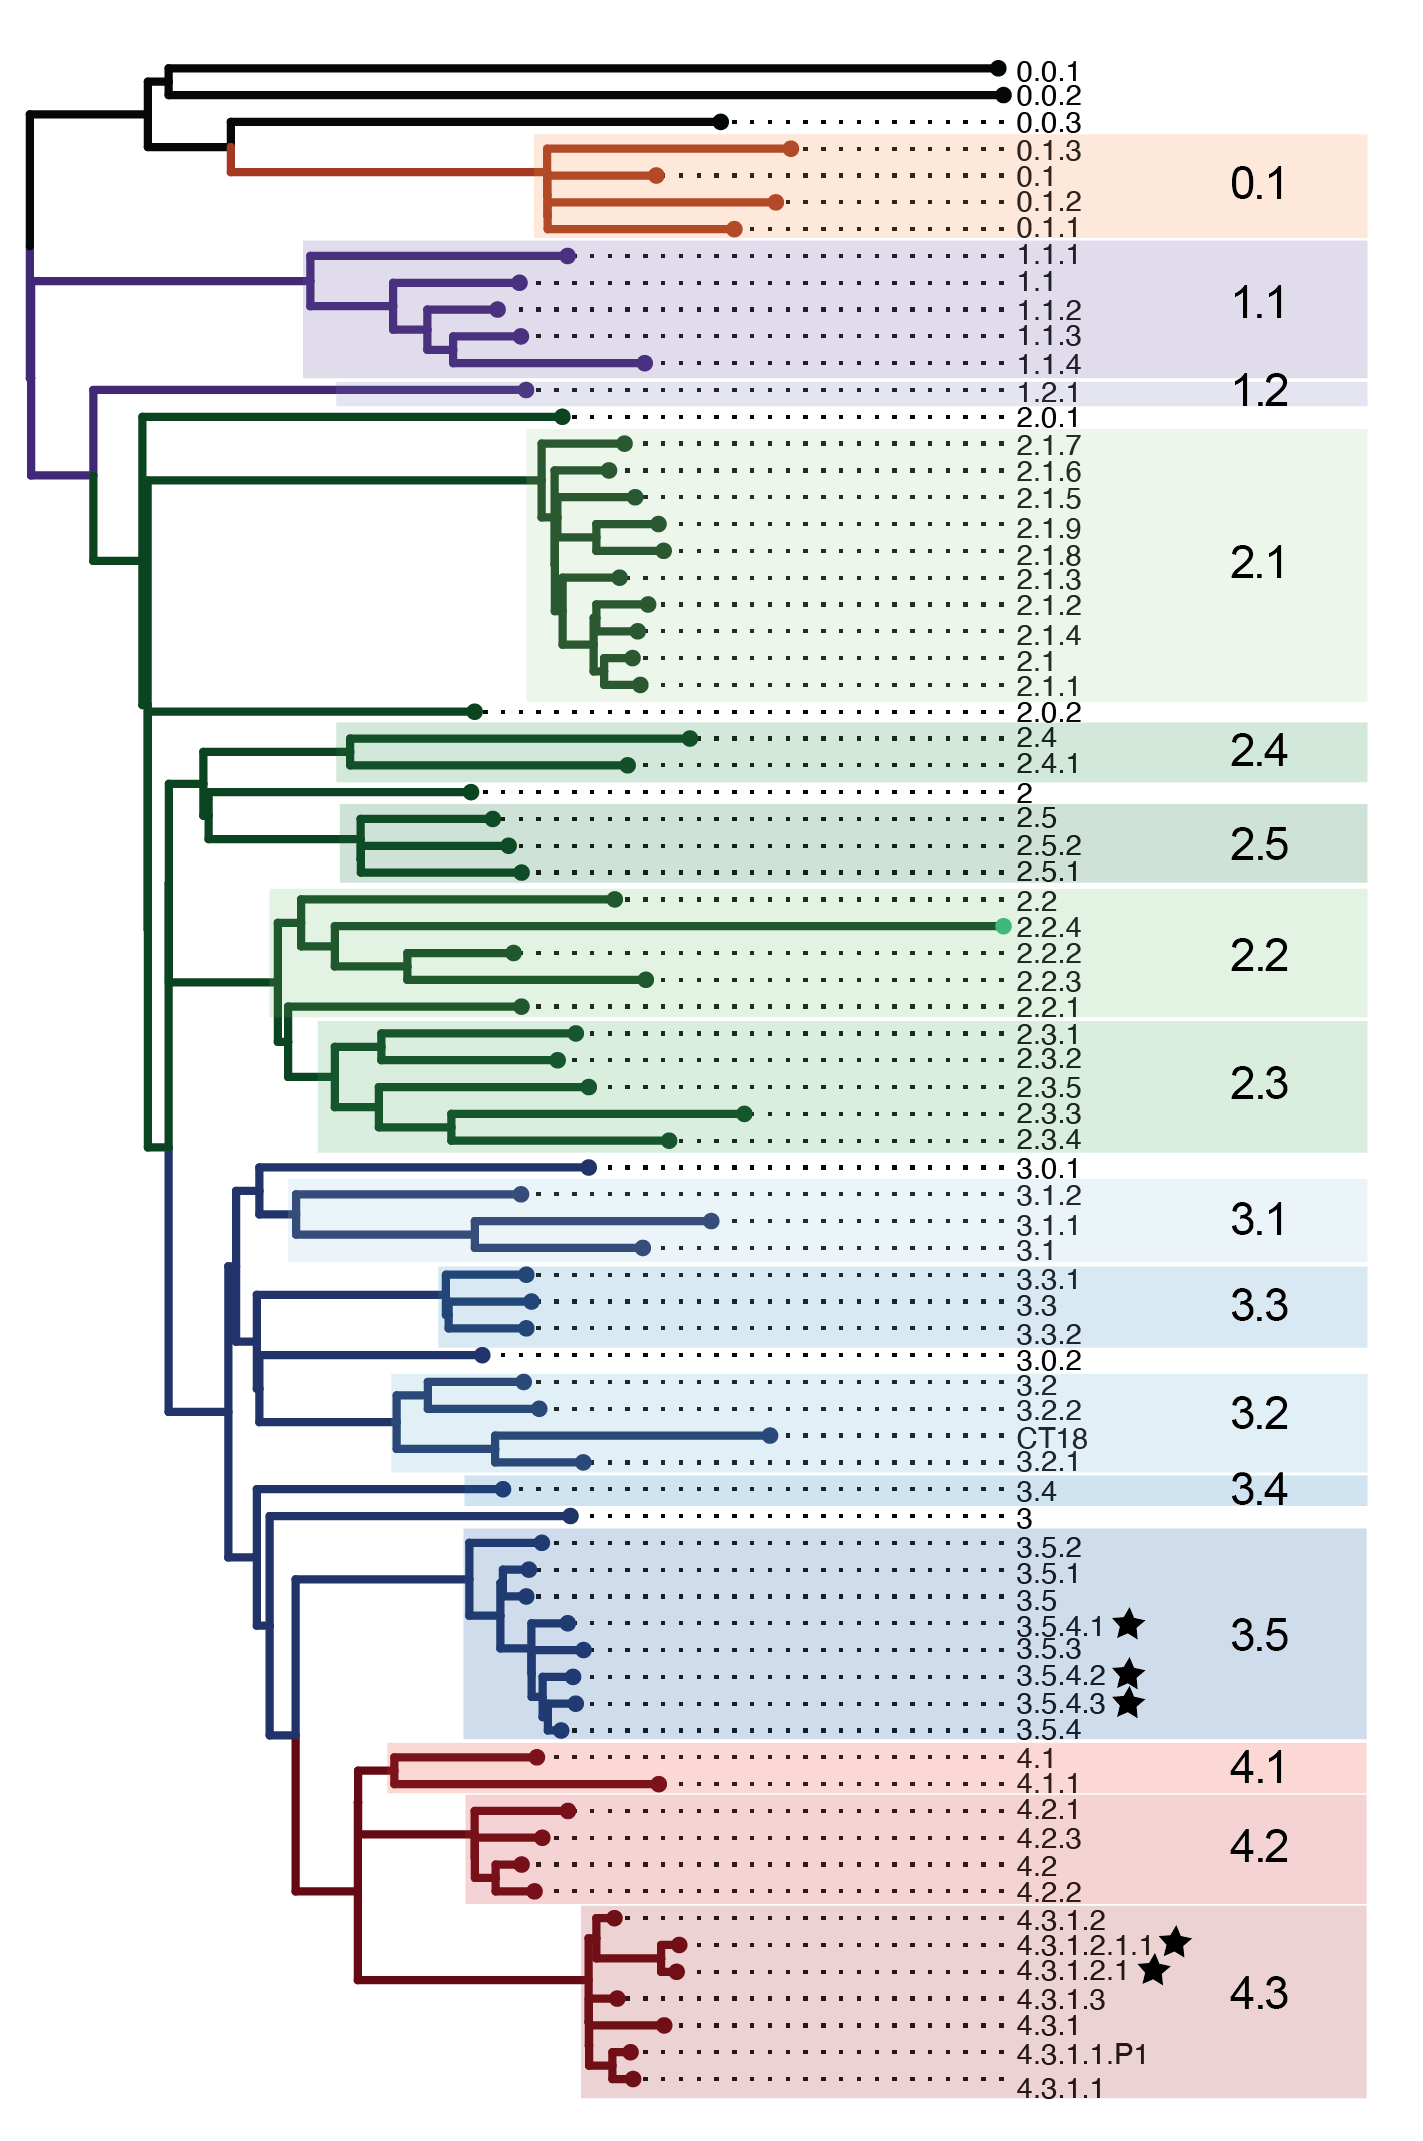
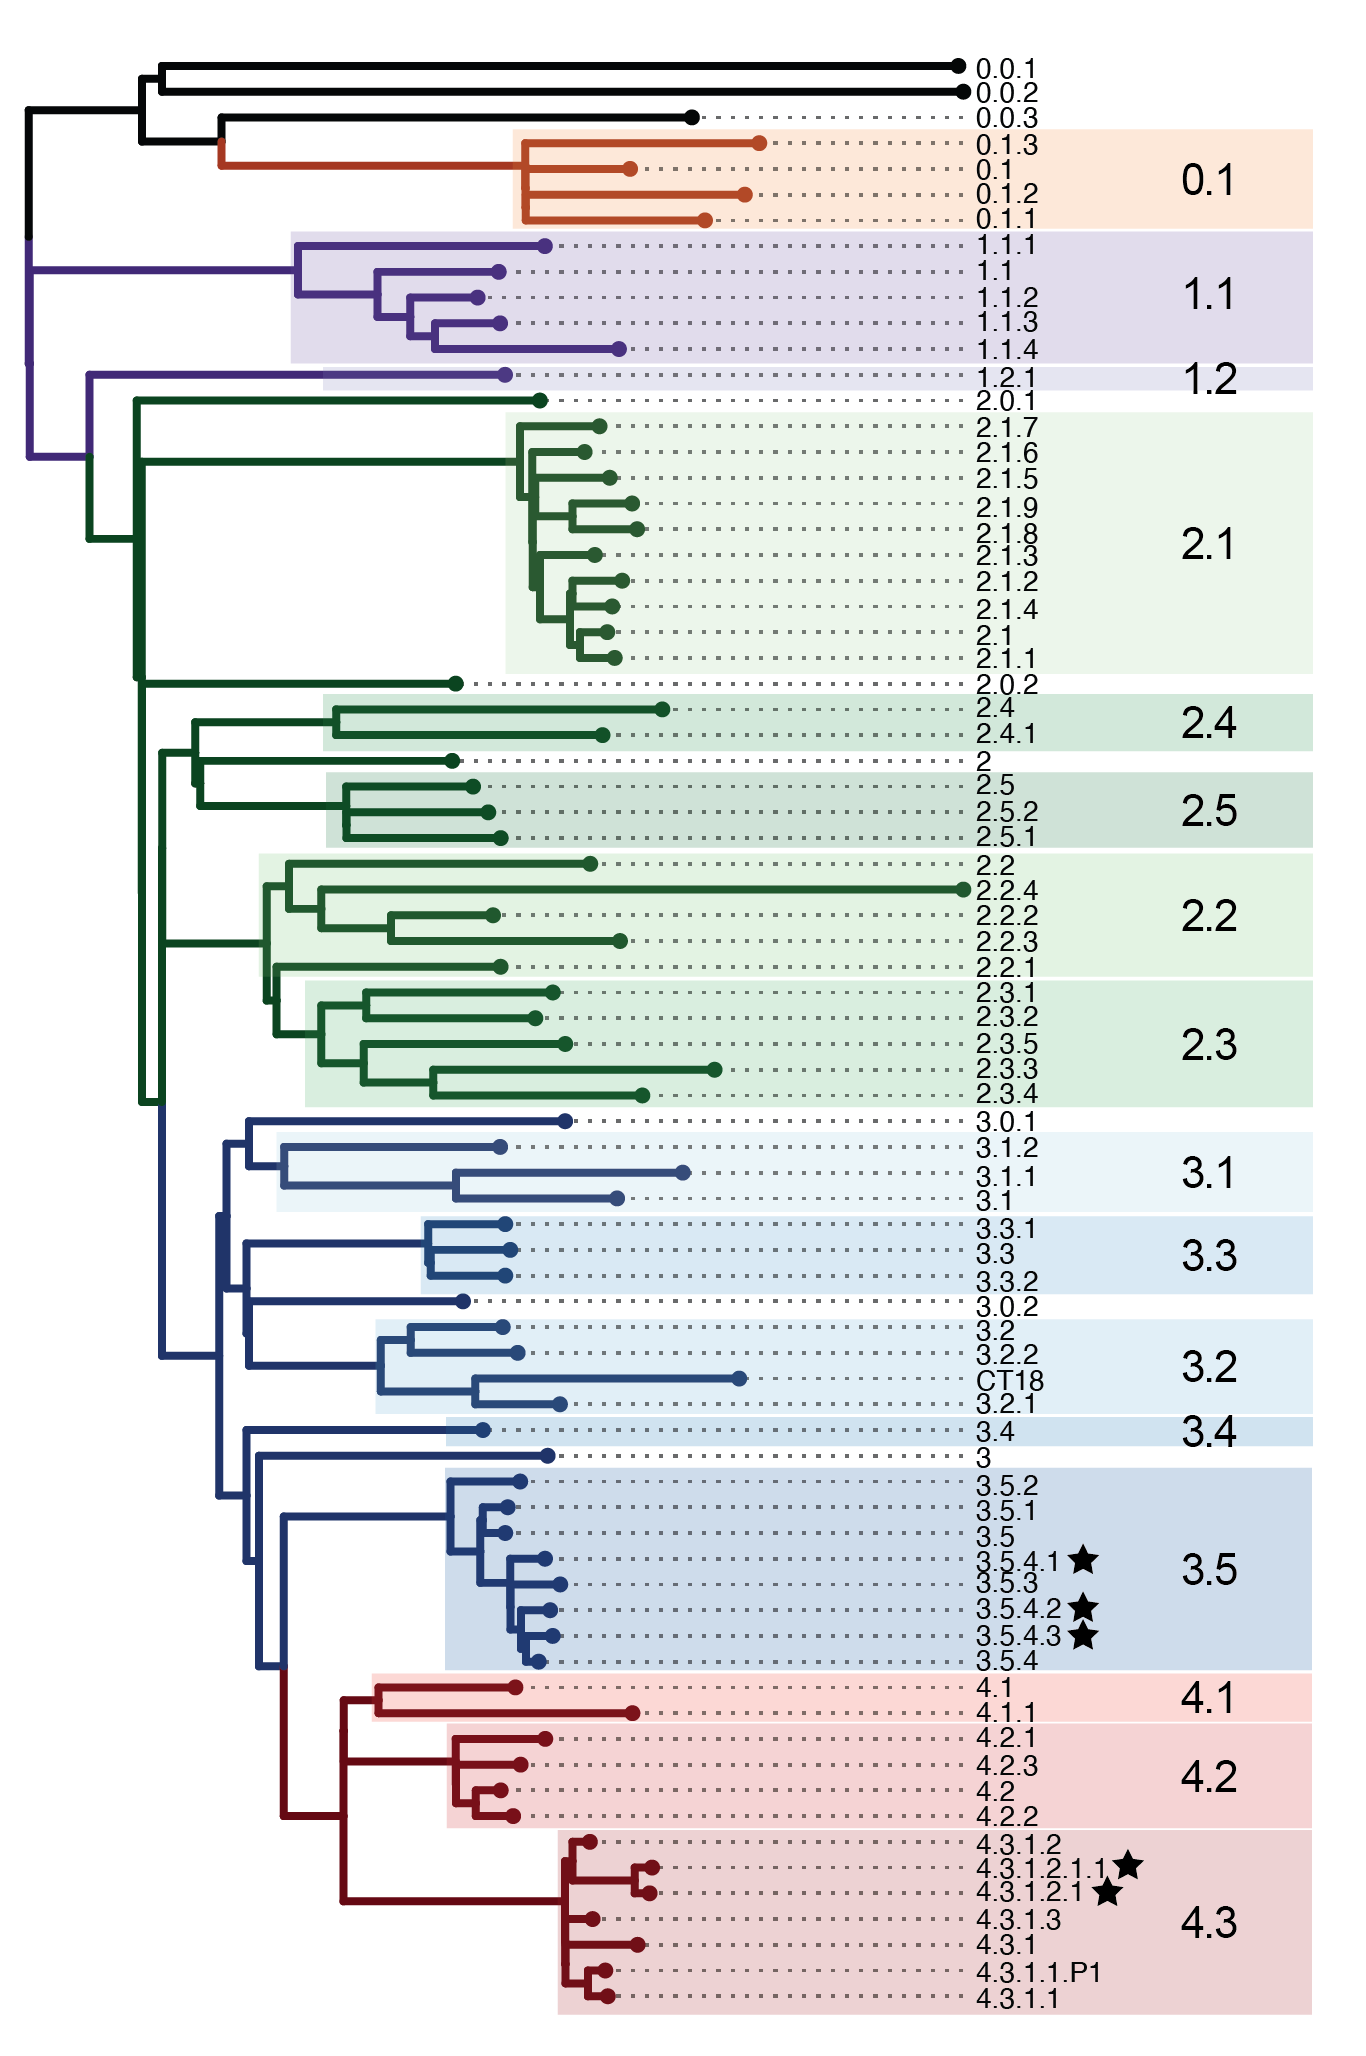
Update figures for dark mode

diff --git a/README.md b/README.md
@@ -1,6 +1,6 @@
 # Genotyping Salmonella Typhi
 
-This repository houses the GenoTyphi genotyping scheme for Salmonella Typhi.
+This repository houses the GenoTyphi genotyping scheme for *Salmonella* Typhi.
 
 It also describes how to call genotypes, AMR and plasmid markers from Typhi whole-genome sequence reads using Mykrobe ('Typhi Mykrobe') and provides links to alternative tools for calling genotypes from reads or assemblies.
 
@@ -13,7 +13,7 @@ It also describes how to call genotypes, AMR and plasmid markers from Typhi whol
 
 The GenoTyphi genotyping scheme divides the *Salmonella* Typhi population into genotypes, which each represent a monophyletic cluster are defined by a unique single nucleotide variant (SNV) marker. There 4 major lineages, which are further divided into >75 different clades and subclades. The relationships between genotypes is conveyed in the name, so e.g. genotypes 2.2 and 2.3 are sister clades in the phylogeny, and 2.2 has daughter subclades 2.2.1, 2.2.2 and so forth, as illustrated in the figure below.
 
-<img src="figs/GenoTyphiTree.png" width="400">
+<p align="center"><picture><source srcset="figs/GenoTyphiTree-dark.png" media="(prefers-color-scheme: dark)"><img src="figs/GenoTyphiTree.png" alt="GenoTyphi tree" width="50%"></picture></p>
 
 ### Scheme specification
 
@@ -21,9 +21,9 @@ The latest scheme specification, mapping marker SNVs to genotypes, is detailed i
 
 ### Scheme development
 
-The initial development of the scheme is described in this paper, ["An extended genotyping framework for Salmonella enterica serovar Typhi, the cause of human typhoid", Wong et al, 2016, Nature Communications](http://www.nature.com/articles/ncomms12827/).
+The initial development of the scheme is described in this paper, ["An extended genotyping framework for *Salmonella enterica* serovar Typhi, the cause of human typhoid", Wong et al, 2016, Nature Communications](http://www.nature.com/articles/ncomms12827/).
 
-Subsequent updates to the genotyping scheme, including new genotypes and mutations conferring resistance to fluoroquinolones and azithromycin, are summarised in ["Five years of GenoTyphi: updates to the global Salmonella Typhi genotyping framework", Dyson & Holt, 2021, Journal of Infectious Diseases](https://doi.org/10.1093/infdis/jiab414) and this [technical report](https://doi.org/10.5281/zenodo.7407985).
+Subsequent updates to the genotyping scheme, including new genotypes and mutations conferring resistance to fluoroquinolones and azithromycin, are summarised in ["Five years of GenoTyphi: updates to the global *Salmonella* Typhi genotyping framework", Dyson & Holt, 2021, Journal of Infectious Diseases](https://doi.org/10.1093/infdis/jiab414) and this [technical report](https://doi.org/10.5281/zenodo.7407985).
 
 The scheme is now managed by a working group of the [Global Typhoid Genomics Consortium](https://www.typhoidgenomics.org/), which is actively working to expand the scheme based on [new data](https://doi.org/10.7554/eLife.85867), and to establish rules for inclusion and naming of new genotypes. If you would like to suggest new genotypes please post an Issue in this repository, or to join the working group see the [consortium website](https://www.typhoidgenomics.org/).
 
@@ -58,7 +58,7 @@ A full list of AMR/plasmid typing targets is in the file `typhimykrobe/AMR_genes
 
 Below you will find instructions for installing and running Mykrobe with the Typhi panel, as well as a Python script for tabulating the results from multiple readsets (input = fastq, single or paired per genome; output = JSON, 1 per genome) into a simple tab-delimited table (input = JSON files, 1 per genome; output = single TSV).
 
-<img src="figs/TyphiMykrobe.png" width="700">
+<p align="center"><picture><source srcset="figs/TyphiMykrobe-dark.png" media="(prefers-color-scheme: dark)"><img src="figs/TyphiMykrobe.png" alt="GenoTyphi tree" width="90%"></picture></p>
 
 ### Quick start
 
